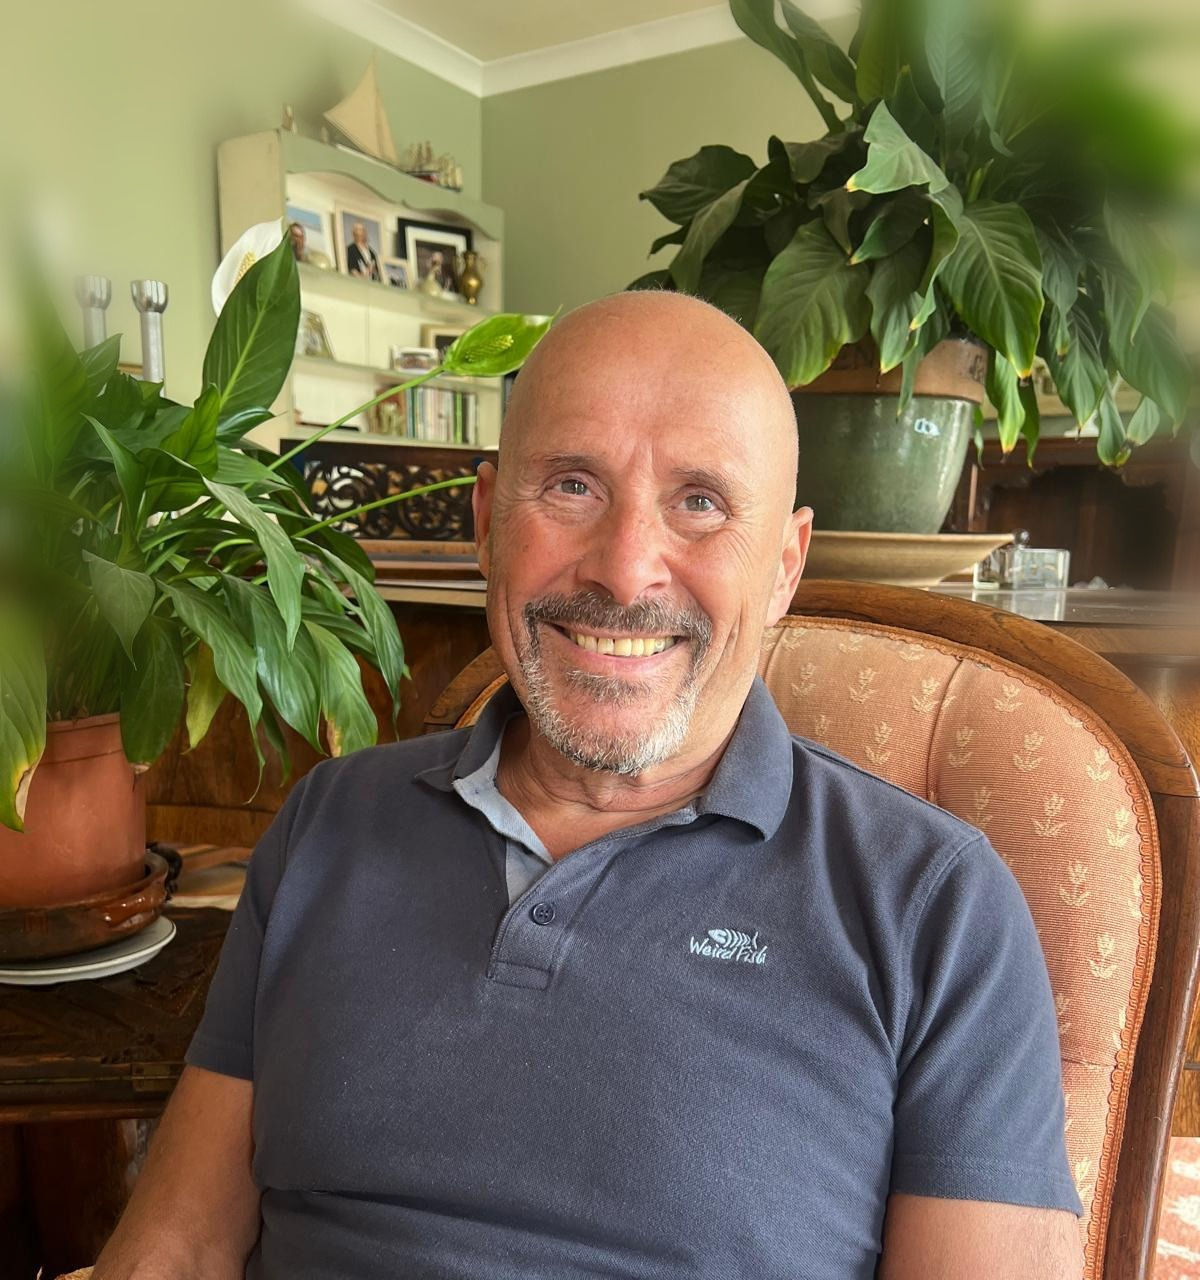
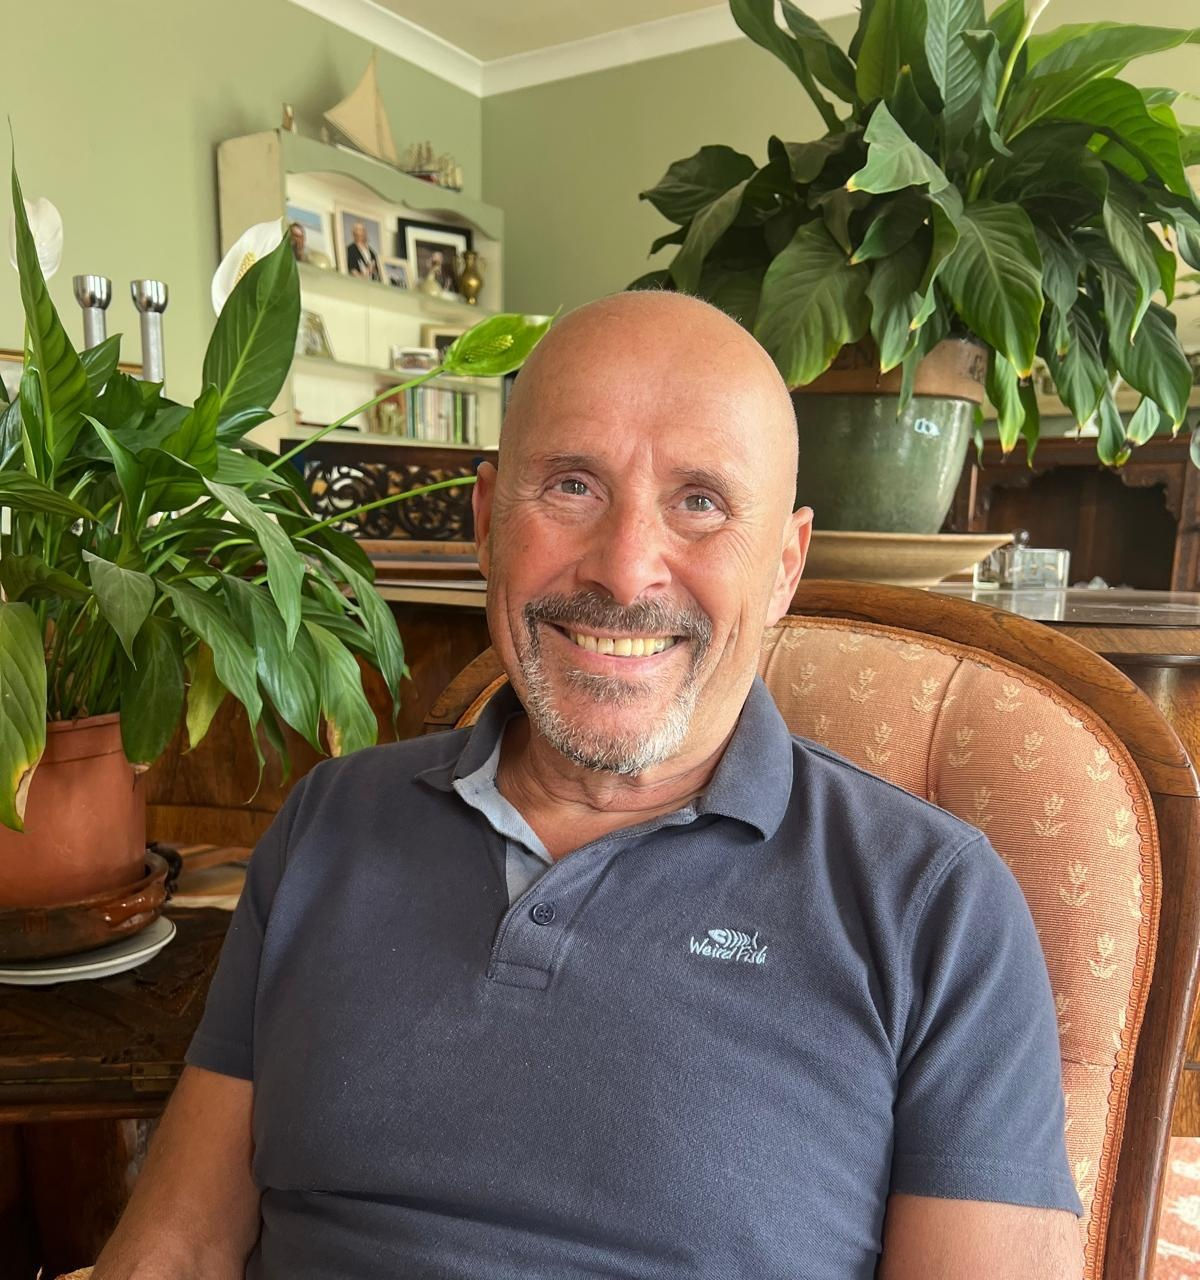
Add files via upload

diff --git a/style.css b/style.css
@@ -395,13 +395,48 @@ p:last-child { margin-bottom: 0; }
 /* ---------------------------------------------------------
    Content blocks
    --------------------------------------------------------- */
+/* About page: photo + opening statement, side by side */
+.about-intro {
+  display: grid;
+  grid-template-columns: minmax(240px, 400px) 1fr;
+  align-items: center;
+  gap: clamp(2rem, 5vw, 4rem);
+  max-width: var(--max-wide);
+  margin: 0 auto;
+  padding: 0 1.5rem;
+}
+@media (max-width: 760px) {
+  .about-intro { grid-template-columns: 1fr; text-align: center; }
+}
+
 .about-portrait {
   display: block;
   width: 100%;
-  max-width: 360px;
-  margin: 0 auto 2.5rem;
-  border-radius: 20px;
-  box-shadow: 0 24px 50px -20px rgba(13, 29, 53, 0.4);
+  border-radius: 24px;
+  box-shadow: 0 30px 60px -24px rgba(13, 29, 53, 0.45);
+  transform: rotate(-2deg);
+}
+
+.about-intro__statement {
+  font-family: var(--font-display);
+  font-style: italic;
+  font-weight: 500;
+  font-size: clamp(1.7rem, 4vw, 2.6rem);
+  line-height: 1.25;
+  color: var(--maroon);
+  margin: 0;
+  position: relative;
+}
+.about-intro__statement::before {
+  content: "";
+  display: block;
+  width: 46px;
+  height: 3px;
+  background: var(--gold);
+  margin-bottom: 1.2rem;
+}
+@media (max-width: 760px) {
+  .about-intro__statement::before { margin-left: auto; margin-right: auto; }
 }
 
 .prose h2 { margin-top: 2.4em; }

diff --git a/about.html b/about.html
@@ -10,7 +10,7 @@
 <link rel="preconnect" href="https://fonts.googleapis.com">
 <link rel="preconnect" href="https://fonts.gstatic.com" crossorigin>
 <link href="https://fonts.googleapis.com/css2?family=Fraunces:ital,wght@0,500;0,600;1,500&family=Jost:wght@500&family=Inter:wght@400;500&display=swap" rel="stylesheet">
-<link rel="stylesheet" href="style.css?v=8">
+<link rel="stylesheet" href="style.css?v=9">
 </head>
 <body>
 
@@ -43,12 +43,17 @@
     </div>
   </section>
 
+  <section class="section" style="padding-bottom: 0;">
+    <div class="about-intro">
+      <img class="about-portrait" src="sal-portrait.jpg" alt="Sal March">
+      <p class="about-intro__statement">I've spent 35 years walking the path of the healer.</p>
+    </div>
+  </section>
+
   <section class="section">
     <div class="container prose">
 
-      <img class="about-portrait" src="sal-portrait.jpg" alt="Sal March">
-
-      <p class="lede">I've spent 35 years walking the path of the healer. Over that time I've trained and practised across a vast range of modalities:</p>
+      <p class="lede">Over that time I've trained and practised across a vast range of modalities:</p>
 
       <ul>
         <li>Spiritual Healing</li>

diff --git a/advanced-course.html b/advanced-course.html
@@ -10,7 +10,7 @@
 <link rel="preconnect" href="https://fonts.googleapis.com">
 <link rel="preconnect" href="https://fonts.gstatic.com" crossorigin>
 <link href="https://fonts.googleapis.com/css2?family=Fraunces:ital,wght@0,500;0,600;1,500&family=Jost:wght@500&family=Inter:wght@400;500&display=swap" rel="stylesheet">
-<link rel="stylesheet" href="style.css?v=8">
+<link rel="stylesheet" href="style.css?v=9">
 </head>
 <body>
 

diff --git a/contact.html b/contact.html
@@ -10,7 +10,7 @@
 <link rel="preconnect" href="https://fonts.googleapis.com">
 <link rel="preconnect" href="https://fonts.gstatic.com" crossorigin>
 <link href="https://fonts.googleapis.com/css2?family=Fraunces:ital,wght@0,500;0,600;1,500&family=Jost:wght@500&family=Inter:wght@400;500&display=swap" rel="stylesheet">
-<link rel="stylesheet" href="style.css?v=8">
+<link rel="stylesheet" href="style.css?v=9">
 </head>
 <body>
 

diff --git a/course.html b/course.html
@@ -10,7 +10,7 @@
 <link rel="preconnect" href="https://fonts.googleapis.com">
 <link rel="preconnect" href="https://fonts.gstatic.com" crossorigin>
 <link href="https://fonts.googleapis.com/css2?family=Fraunces:ital,wght@0,500;0,600;1,500&family=Jost:wght@500&family=Inter:wght@400;500&display=swap" rel="stylesheet">
-<link rel="stylesheet" href="style.css?v=8">
+<link rel="stylesheet" href="style.css?v=9">
 </head>
 <body>
 

diff --git a/index.html b/index.html
@@ -10,7 +10,7 @@
 <link rel="preconnect" href="https://fonts.googleapis.com">
 <link rel="preconnect" href="https://fonts.gstatic.com" crossorigin>
 <link href="https://fonts.googleapis.com/css2?family=Fraunces:ital,wght@0,500;0,600;1,500&family=Jost:wght@500&family=Inter:wght@400;500&display=swap" rel="stylesheet">
-<link rel="stylesheet" href="style.css?v=8">
+<link rel="stylesheet" href="style.css?v=9">
 </head>
 <body>
 

diff --git a/sessions.html b/sessions.html
@@ -10,7 +10,7 @@
 <link rel="preconnect" href="https://fonts.googleapis.com">
 <link rel="preconnect" href="https://fonts.gstatic.com" crossorigin>
 <link href="https://fonts.googleapis.com/css2?family=Fraunces:ital,wght@0,500;0,600;1,500&family=Jost:wght@500&family=Inter:wght@400;500&display=swap" rel="stylesheet">
-<link rel="stylesheet" href="style.css?v=8">
+<link rel="stylesheet" href="style.css?v=9">
 </head>
 <body>
 

diff --git a/testimonials.html b/testimonials.html
@@ -10,7 +10,7 @@
 <link rel="preconnect" href="https://fonts.googleapis.com">
 <link rel="preconnect" href="https://fonts.gstatic.com" crossorigin>
 <link href="https://fonts.googleapis.com/css2?family=Fraunces:ital,wght@0,500;0,600;1,500&family=Jost:wght@500&family=Inter:wght@400;500&display=swap" rel="stylesheet">
-<link rel="stylesheet" href="style.css?v=8">
+<link rel="stylesheet" href="style.css?v=9">
 </head>
 <body>
 
